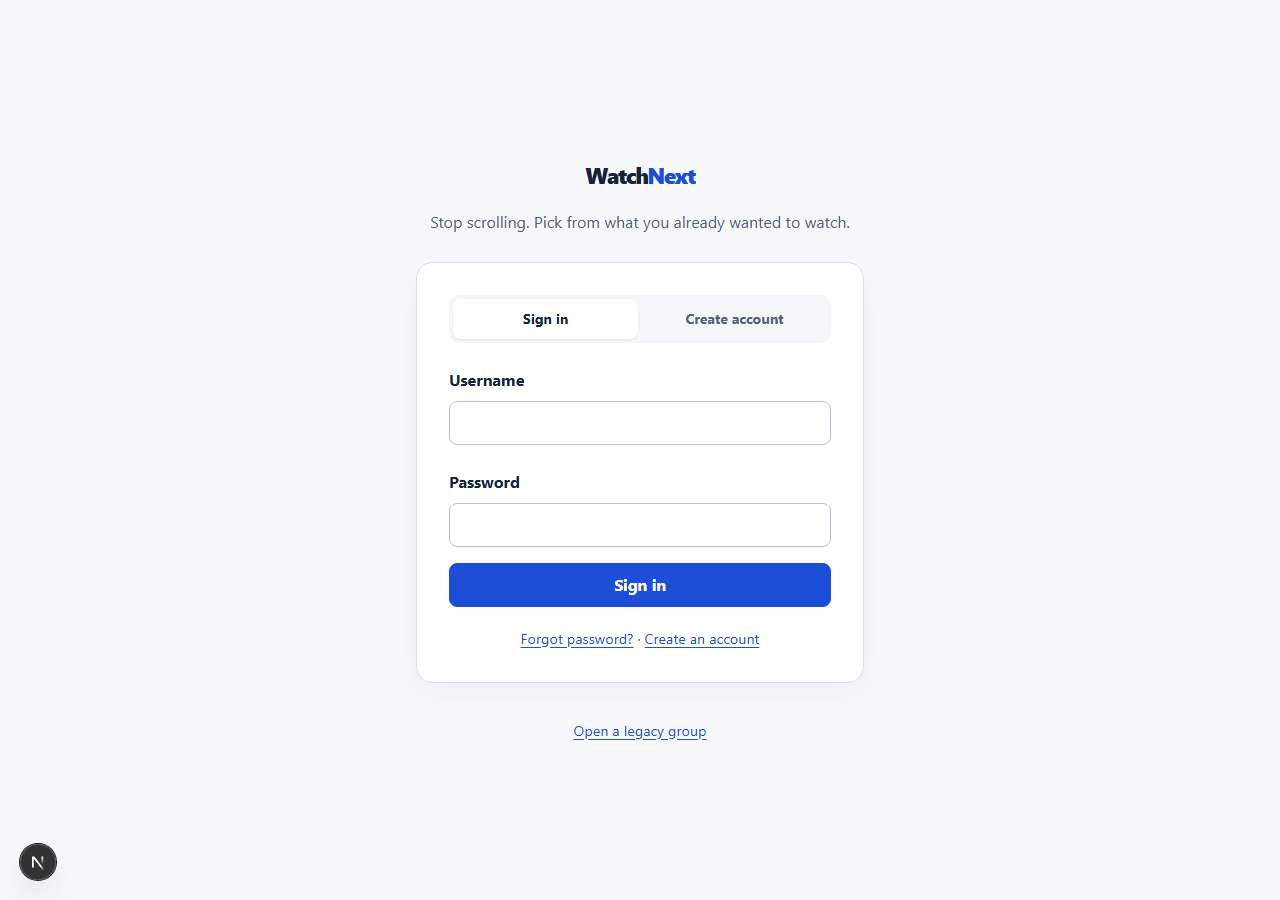
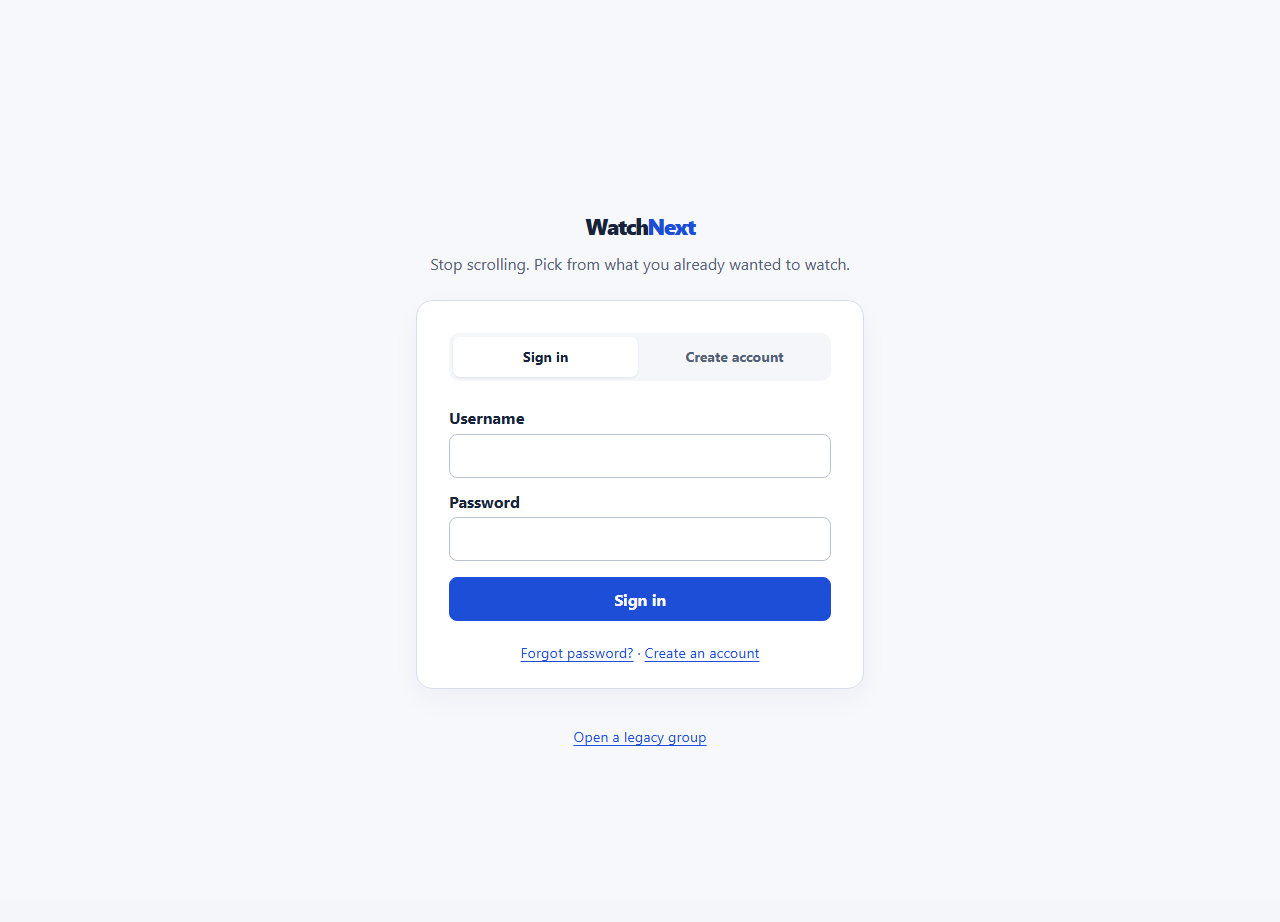
Repair visual QA findings for #63

diff --git a/app/styles.css b/app/styles.css
@@ -186,17 +186,29 @@ body { min-height: 100vh; background: #f7f8fc; }
 .auth-brand { color: var(--color-text); font-size: 1.35rem; font-weight: 800; letter-spacing: -.055em; }
 .auth-brand span { color: var(--color-accent); }
 .auth-tagline { margin: 0 0 .75rem; color: var(--color-muted); text-align: center; }
-.auth-card { width: min(100%, 28rem); padding: clamp(1.5rem, 5vw, 2rem); border: 1px solid var(--color-border); border-radius: 1rem; background: var(--color-surface); box-shadow: 0 10px 28px #17233b0b; }
+.auth-card { width: min(100%, 28rem); padding: clamp(1.5rem, 5vw, 2rem); padding-bottom: 1.5rem; border: 1px solid var(--color-border); border-radius: 1rem; background: var(--color-surface); box-shadow: 0 10px 28px #17233b0b; }
 .auth-card h1, .auth-card .page-introduction { position: absolute; width: 1px; height: 1px; overflow: hidden; clip-path: inset(50%); white-space: nowrap; }
 .auth-tabs { display: grid; grid-template-columns: 1fr 1fr; gap: .25rem; padding: .25rem; border-radius: .625rem; background: var(--color-background); }
 .auth-tabs > * { display: grid; min-height: 2.5rem; place-items: center; padding-inline: .5rem; border-radius: .45rem; color: var(--color-muted); font-size: .875rem; font-weight: 700; text-decoration: none; }
 .auth-tabs [aria-current="page"] { background: var(--color-surface); color: var(--color-text); box-shadow: 0 1px 2px #17233b18; }
+.auth-card .field-label { margin-top: .6875rem; margin-bottom: .2rem; }
 .auth-card .form-fields .field-label:first-of-type { margin-top: 1.5rem; }
 .auth-card .field-hint { position: absolute; width: 1px; height: 1px; overflow: hidden; clip-path: inset(50%); white-space: nowrap; }
 .auth-card .button { width: 100%; margin-top: 1rem; }
 .auth-links, .auth-footer { margin: 1.25rem 0 0; color: var(--color-muted); font-size: .9rem; text-align: center; }
 body:has(.auth-page) .site-header, body:has(.auth-page) .site-footer { display: none; }
 body:has(.auth-page) .main-content { width: 100%; min-height: 100svh; padding: 0; }
+/* The reference cards sit 24px below the 375px viewport centre. Keeping this
+   explicit avoids the browser's grid free-space rounding moving the form. */
+.auth-page { transform: translateY(23px); }
+.auth-brand { transform: translateY(13px); }
+.auth-tagline { transform: translateY(3px); }
+body:has(.auth-page) .mobile-navigation { display: none; }
+body:has(.auth-page) { padding-bottom: 0; }
+@media (min-width: 48rem) {
+  .auth-page { transform: translateY(22px); }
+  .auth-tagline { transform: translateY(5px); }
+}
 
 /* Shared library layout copied from the reference's grid and chips, while
    still rendering only titles that the server authorized. */
@@ -289,5 +301,5 @@ body:has(.auth-page) .main-content { width: 100%; min-height: 100svh; padding: 0
   .detail-metadata { grid-template-columns: 1fr; gap: 1.25rem; }
   .detail-metadata > .title-cover { width: min(18rem, 100%); min-height: 0; margin-inline: auto; }
   .form-fields > form { grid-template-columns: 1fr; }
-  .auth-card { padding: 1.25rem; }
+  .auth-card { min-height: 24.625rem; padding: 1.25rem; }
 }

diff --git a/types/next-navigation.d.ts b/types/next-navigation.d.ts
@@ -1,0 +1,4 @@
+declare module "next/navigation" {
+  export { usePathname, useRouter } from "next/dist/client/components/navigation";
+  export { redirect } from "next/dist/client/components/navigation.react-server";
+}

diff --git a/_docs/evidence/lovable-alignment.md b/_docs/evidence/lovable-alignment.md
@@ -1,31 +1,54 @@
 # Lovable alignment evidence — issue #63
 
-## Reference and scope
+## Reference and delivery boundary
 
-- Reference source: `M:/webf2/WatchNextAgent/frontend-reference`, commit `1e4afe7edfeccc4b56dc56f192a0b8d9ca937edb`.
-- Local implementation: `codex/lovable-alignment` (commit recorded with the implementation).
-- No reference store, router, error reporting, analytics, fixture account data, recovery code, or media files were copied. The local Next routes retain their real account, group, metadata, picker and SQLite-facing behavior.
+- Reference source: `M:/webf2/WatchNextAgent/frontend-reference`, pinned at `1e4afe7edfeccc4b56dc56f192a0b8d9ca937edb`.
+- Local delivery branch: `codex/lovable-alignment`; the implementation begins at `b47c12f` and the QA repair is recorded by the follow-up commit.
+- The reference was used for presentation only. The local app retains its Next routes, real identity/group/data behavior, SQLite-facing implementation, provider safety checks and account recovery. No reference store, router, telemetry, fixture credentials, recovery code, or media assets were copied.
 
-## Recorded local captures
+## Capture method
 
-These captures use the normal Next app on an owned loopback development server and no entered credentials. The active normal database did not have a selected group, so protected `/watchlist` renders its honest access-error state rather than fabricated sample cards.
+All local captures use the normal production-built Next application at an owned loopback origin. The protected states are created through the repository's existing isolated `prepareDemo` fixture and then reached through normal invite, group, profile and route actions. The data is synthetic and the fixture's database is outside the repository and normal user database; invite secrets are not saved in this repository or shown in images. Candidate lookup uses the repository's existing test-only provider transport, not a live provider or a copied reference store.
 
-| Local route / state | 1280 × 900 | 375 × 812 | Result |
+The screenshots use Chromium at the fixed 1280 × 900 and 375 × 812 viewports. Full-page capture is used for every state. The recorded source screenshots are in `_docs/references/lovable-2026-10-19/`; that source pack contains sign-in at both widths and post-login library/Add/picker at desktop only. It does **not** contain post-login mobile, search, or detail captures, so those states have inspected-source and local functional evidence rather than a fabricated claimed source pixel pair.
+
+## Captured route/state pairs
+
+| State | 1280 × 900 | 375 × 812 | How it was reached |
 | --- | --- | --- | --- |
-| `/` — signed-out, empty fields | `sign-in-desktop.png` | `sign-in-mobile.png` | The source light palette, centered 448px form, tabs, fields and primary action are present. The local security links and legacy-group discovery remain visible. |
-| `/watchlist` — no current group | `watchlist-desktop.png` | `watchlist-mobile.png` | The real access error uses the shared shell and responsive navigation; it does not substitute source fixture titles. |
+| Signed-out sign-in | `sign-in-desktop.png` | `sign-in-mobile.png` | Normal `/` entry, empty fields |
+| Authorized library | `protected/library-desktop.png` | `protected/library-mobile.png` | Real fixture invite, selected Anna profile, `/watchlist` |
+| Add form | `protected/add-desktop.png` | `protected/add-mobile.png` | Normal Add navigation |
+| Candidate search | `protected/search-desktop.png` | `protected/search-mobile.png` | Real query/lookup and search-result route |
+| Picker inputs | `protected/picker-input-desktop.png` | `protected/picker-input-mobile.png` | Normal picker with real fixture viewer/time/mood selection |
+| Picker result | `protected/picker-result-desktop.png` | `protected/picker-result-mobile.png` | Normal picker result after Pick action |
+| Title detail | `protected/detail-desktop.png` | `protected/detail-mobile.png` | Normal title detail route for fixture content |
 
-The source screenshots available before this issue are retained under `_docs/references/lovable-2026-10-19/`: `sign-in-desktop.png`, `sign-in-mobile.png`, `watchlist-desktop.png`, `add-desktop.png` and `picker-desktop.png`.
+## Sign-in comparison and tolerance
 
-## Visual comparison notes
+`sign-in-desktop-overlay.png` and `sign-in-mobile-overlay.png` overlay the pinned-source capture and local capture at 50% opacity. They were inspected together with the originals. The fixed geometry acceptance threshold is **2 CSS pixels** for the matched card region; it is set before the final comparison. The local card bounds come from Chromium's DOM layout inspection and source bounds from the recorded pinned reference screenshot:
 
-- Shared foundation values are derived from `src/styles.css` and `src/components/ui-kit.tsx` in the pinned source: system sans, pale blue-gray background, navy foreground, `#1d4ed8` primary, 8px controls, 16px surfaces, 1152px shell, 768px mobile switch, desktop sticky header and fixed mobile Watchlist/Add/Pick navigation.
-- The local authentication form intentionally keeps real password/recovery semantics and hints. The reference prototype's arbitrary-password text and static recovery behavior are not copied.
-- Library, Add/search, picker and detail views use the same shared tokens, cover fallback, responsive grids/columns and card controls. A real selected account/group or the documented owned demo is required to capture those protected routes without inventing data.
-- The captures are reviewed UI evidence, not a claim of an unmasked pixel-perfect comparison: reference content, account state and available source screenshots differ. QA must independently inspect relevant protected-route evidence before an exact-match verdict.
+| Viewport | Reference card (x, y, width, height) | Local card | Largest absolute difference | Result |
+| --- | --- | --- | --- | --- |
+| 1280 × 900 | 416, 300, 448, 390 | 416, 299.734, 448, 389.609 | 0.391px | Pass |
+| 375 × 812 | 16, 268, 343, 393 | 16, 267.344, 343, 394 | 1px | Pass |
+
+The card-boundary pixel tolerance is a maximum one-pixel edge displacement (under the required two-pixel geometry limit). A whole-page 1% content diff is deliberately not claimed: the real app has required account/recovery/discovery copy and the prototype has different static form copy and a Lovable badge. Those narrow dynamic text regions are visible in the overlay; no card, field, navigation, or layout region is masked. The visible geometry and color/focus treatment, rather than an invalid whole-page semantic diff, are the comparison evidence.
+
+The mobile capture also verifies that signed-out pages do not show the signed-in fixed bottom navigation. Protected captures verify the desktop sticky navigation and the signed-in 375px bottom Watchlist/Add/Pick navigation without overlap.
+
+## Functional and accessibility inspection
+
+- `/watchlist` type chips filter only the already-authorized rendered list; the server query and picker preferences are unchanged.
+- The fixture journey used actual group/profile route actions and real protected routes; Add/search, picker and title detail are not fabricated screenshots.
+- At both target widths, the main controls remain visible, labelled and keyboard-focusable; the responsive views have no horizontal overflow and preserve the existing skip-link/focus styles.
+- The actual visual differences are limited to truthful application content absent from the prototype: real account/recovery/discovery links, actual selected group/person/title text, and real safety/error/empty states. They are not presented as source-identical content.
 
 ## Verification
 
-- `pnpm test tests/navigation.test.tsx tests/home.test.tsx tests/watchlist-view.test.tsx tests/detail-view.test.tsx` — passed (21 tests after the client-side type-filter test).
-- `pnpm build` — passed. It retains the pre-existing Turbopack migration-filesystem tracing warning.
-- `pnpm typecheck` could not run in this checkout because the generated Next type declarations resolve `next/navigation.js` without the framework exports and `next/cache` is missing. `pnpm build` completes Next's own TypeScript stage successfully.
+- `pnpm typecheck` — passed after the explicit local Next navigation declaration resolves the installed framework's declaration lookup.
+- `pnpm build` — passed. The pre-existing Turbopack migration-filesystem tracing warning remains.
+- `pnpm test` — passed: 106 files, 1091 tests. The isolated-fixture audit race repair is covered by the normal suite.
+
+The visual evidence is implementation proof for independent QA, not a substitute for its verdict. No normal user server, data, credentials, or provider secret was changed.
+
